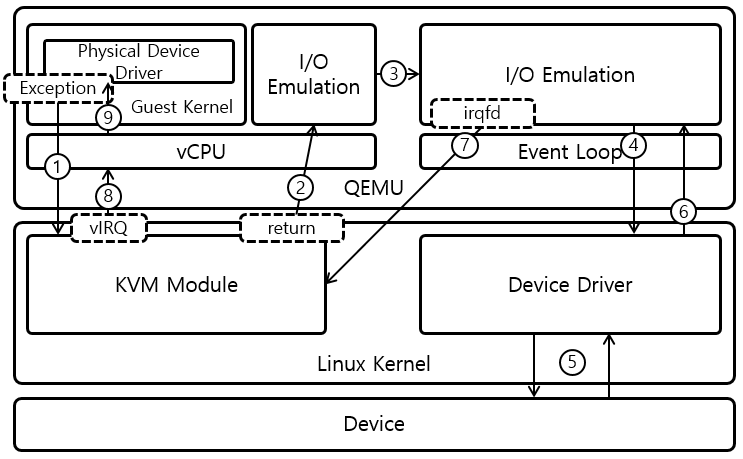
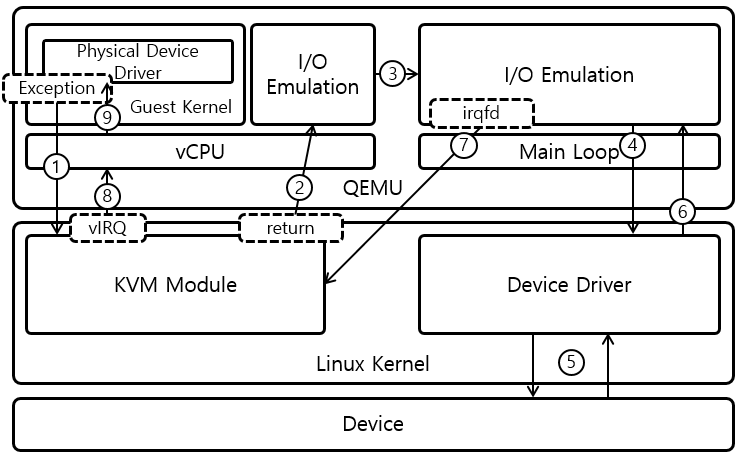
Update QEMU+KVM, I/O Virtualization Software

diff --git a/_docs/theory_analysis/IO_Virtualization_Software.md b/_docs/theory_analysis/IO_Virtualization_Software.md
@@ -13,25 +13,60 @@ adsense: true
 
 <img src="{{site.baseurl}}/images/theory_analysis/IO_Virtualization_Software/Software_IO_Virtualization.PNG" width="700px">
 
-* Software I/O 가상화 기술은 **Emulation** 이다. 하이퍼바이저는 CPU의 하드웨어 기능을 이용하여(Intel VT-x, ARM Hypervisor Extension) 가상 머신 Kernel의 Device Driver가 I/O 요청 하는 순간 Exception을 발생시켜 하이퍼바이저가 실행되도록 설정한다. Exception이 발생하여 하이퍼바이저가 실행되면, 하이퍼바이저는 가상 머신이 어떤 I/O 동작을 하려고 했는지 파악하고 I/O Device Emulation을 수행 후 결과를 가상 머신에게 돌려준다. 가상 머신의 I/O는 Exception과 Emulation이라는 2가지 큰 오버헤드가 발생하기 때문에 가상 머신의 I/O 성능을 크게 낮추는 원인이 된다. 이러한 문제를 해결하기 위해 가상 머신 Device Driver를 원래 물리 머신에서 구동하는 Device Driver가 아닌, 가상 머신 전용 Device Driver를 이용하는 기법이 있다. 물리 머신의 Device Driver를 그대로 이용하는 방법을 I/O Full-virtualization이라고 하고, 가상 머신 전용 Device Driver를 이용하는 방법을 I/O Para-virtualization이라고 한다.
+* Software I/O Virtualization은 **Emulation**을 기반으로 하는 기법이다. 하이퍼바이저는 CPU의 하드웨어 기능을 이용하여(Intel VT-x, ARM Hypervisor Extension) 가상 머신 Kernel의 Device Driver가 I/O 요청 하는 순간 Exception을 발생시켜 하이퍼바이저가 실행되도록 설정한다. Exception이 발생하여 하이퍼바이저가 실행되면, 하이퍼바이저는 가상 머신이 어떤 I/O 동작을 하려고 했는지 파악하고 I/O Device Emulation을 수행 후 결과를 가상 머신에게 돌려준다. 가상 머신의 I/O는 Exception과 Emulation이라는 2가지 큰 Overhead가 발생하기 때문에 가상 머신의 I/O 성능을 크게 낮추는 원인이 된다. 이러한 문제를 해결하기 위해 가상 머신 Device Driver를 원래 물리 머신에서 구동하는 Device Driver가 아닌, 가상 머신 전용 Device Driver를 이용하는 기법이 있다. 물리 머신의 Device Driver를 그대로 이용하는 기법을 I/O Full-virtualization이라고 하고, 가상 머신 전용 Device Driver를 이용하는 기법을 I/O Para-virtualization이라고 한다.
 
 ### 2. I/O Full-virtualization
 
-* I/O Full-virtualization은 물리 머신의 Device Driver를 그대로 이용하는 방법을 의미한다. Linux에서 많이 이용되는 KVM+QEMU 조합에서 QEMU가 Device Emulation 역활을 수행한다.
+* I/O Full-virtualization은 물리 머신의 Device Driver를 그대로 이용하는 기법을 의미한다. Linux에서 많이 이용되는 KVM+QEMU 조합에서 QEMU가 Device Emulation 역활을 수행한다.
 
 <img src="{{site.baseurl}}/images/theory_analysis/IO_Virtualization_Software/KVM_QEMU_IO_Process.PNG" width="700px">
 
-* 위의 그림은 KVM+QEMU에서 I/O Full-virtualization 처리 과정을 나타내고 있다. 그림에서 QEMU는 vCPU와 Event Loop라는 2개의 Thread를 이용하는걸 나타내고 있다. vCPU Thread가 Guest(가상 머신)의 Device Driver를 수행하다가 I/O 수행을 요청하면 Exception이 발생하여 Host(물리 머신)의 KVM Module이 수행된다. KVM Module은 QEMU에게 왜 Exception이 발생하였는지 이유를 전달한다. 전달받은 내용을 바탕으로 QEMU는 I/O 실제 Device에게 I/O 요청 한다. 처리가 끝나면 QEMU는 KVM Module에게 irqfd를 통해서 Guest에게 Virtual IRQ를 Inject 하도록 명령한다. Virtual IRQ를 받은 가상 머신은 자신이 요청한 I/O 처리가 완료되었다고 생각한다.
+* 위의 그림은 KVM+QEMU에서 I/O Full-virtualization 처리 과정을 나타내고 있다. 그림에서 QEMU는 vCPU와 Main Loop라는 2개의 Thread를 이용하는걸 나타내고 있다. vCPU Thread가 Guest(가상 머신)의 Device Driver를 수행하다가 I/O 수행을 요청하면 Exception이 발생하여 Host(물리 머신)의 KVM Module이 수행된다. KVM Module은 QEMU에게 왜 Exception이 발생하였는지 이유를 전달한다. 전달받은 내용을 바탕으로 QEMU는 I/O 실제 Device에게 I/O 요청 한다. 처리가 끝나면 QEMU는 KVM Module에게 irqfd를 통해서 Guest에게 Virtual IRQ를 Inject 하도록 명령한다. Virtual IRQ를 받은 가상 머신은 자신이 요청한 I/O 처리가 완료되었다고 생각한다.
 
 * 물리 머신에서 I/O 처리는 Application -> Device Driver -> Device -> 요청 완료 IRQ 발생 -> Device Driver -> Application의 순으로 진행된다. 가상 머신에서의 I/O 처리는 Device Drvier와 요청 완료 IRQ 사이에서 KVM+QEMU가 관여하여 Device Emulation을 수행하게 된다. 따라서 가상 머신은
 자신이 이용하는 Device가 가상 Device인지 인식하지 못한다.
 
 ![]({{site.baseurl}}/images/theory_analysis/IO_Virtualization_Software/KVM_QEMU_Device.PNG)
 
-* 위의 그림은 QEMU+KVM의 x86 가상 머신안에서 보이는 PCI 장치들을 나타내고 있다. QEMU는 NIC이나 HDD와 같은 장치 뿐만 아니라 PCI Bridge나 IDE Controller같은 x86 가상 머신 구동에 필수적인 모든 Device들을 Emulation한다.
+* 위의 그림은 QEMU+KVM의 x86 가상 머신 안에서 보이는 PCI 장치들과 SCSI 장치들을 나타내고 있다. QEMU는 NIC이나 HDD와 같은 장치 뿐만 아니라 PCI Bridge나 IDE Controller같은 x86 가상 머신 구동에 필수적인 모든 Device들을 Emulation한다.
 
 ### 3. I/O Para-virtualization
 
+* I/O Para-virtualization은 가상 머신에서 물리 머신의 Device Driver를 이용하지 않고 **가상 머신 전용 Device Driver**를 이용하는 기법이다. I/O Full-virtualization의 처리 과정을 보면 가상 머신의 모든 I/O는 Device Emulation Module(QEMU)를 거친다는 사실을 알 수 있다. 다시 말해서 가상 머신과 Device Emulation Module 사이의 I/O Data 통신이 과정이 가상 머신의 I/O의 주요 Overhead가 된다는 의미이다. 가상 머신 전용 Device Driver는 이러한 I/O Data 통신 Overhead를 줄여 가상 머신의 I/O 성능을 향상 시키는 기법이다. KVM의 VirtIO, Xen의 Split Device Driver가 I/O Para-virtualization 기법에 해당한다.
+
+* 가상 머신 전용 Device Driver는 가상 머신과 Device Emulation Module 사이의 I/O Data 통신에 특화된 Device Driver이다. 가상 머신이 물리 머신 Device Driver를 이용 할 때 보다 Emulation Overhead는 줄어들고 가상 머신의 Exception도 덜 발생하게 된다. 따라서 I/O Para-virtualization 기법은 가상 머신의 I/O 성능 향상 뿐만 아니라 Emulation에 의한 Host의 CPU 사용률을 줄이는 효과도 가지고 있다.
+
+#### 3.1. VirtIO
+
+<img src="{{site.baseurl}}/images/theory_analysis/IO_Virtualization_Software/VirtIO_Architecture.PNG" width="600px">
+
+* 위 그림은 VirtIO의 Architecture를 간략히 나타내고 있다. VirtIO는 크게 Frontend 부분인 VirtIO Driver, Backend 부분인 VirtIO Device Emulator 그리고 Frontend와 Backend를 연결해주는 Virtqueue 3가지로 구성되어 있다. Virio Driver는 가상 머신의 Kernel에 탑재되는 Device Driver이다. Virito Device Driver에는 여러가지가 있는데, 대표적으로 Network를 위한 virito-net과 Block 장치를 위한 virtio-Blk, virtio-scsi가 있다. VirtIO Device Emulator는 QEMU가 담당한다. Virtqueue는 가상 머신과 QEMU의 공유 메모리에 위치하여 Frontend와 Backend사이에서 가상 머신의 I/O Data를 전달하는 역활을 수행한다.
+
+<img src="{{site.baseurl}}/images/theory_analysis/IO_Virtualization_Software/KVM_QEMU_virtIO_Process.PNG" width="700px">
+
+* 위의 그림은 KVM+QEMU+VirtIO에서 I/O Para-virtualization 처리 과정을 나타내고 있다. 가상 머신은 VirtIO Device Drvier를 통해 I/O를 요청한다. VirtIO Device Driver는 Kick이라는 동작을 통해 Exception을 발생시켜 KVM을 깨운다. KVM은 다시 ioeventfd를 이용하여 QEMU의 Main Loop을 깨운다. 깨어난 QEMU는 VirtIO Queue에 있는 I/O Data를 실제 I/O Device에 Write하고 그 응답을 다시 Virtqueue에 Write한다. 그 후 QEMU는 KVM Module에게 irqfd를 통해서 Guest에게 Virtual IRQ를 Inject 하도록 명령하여 가상 머신의 I/O 처리를 끝낸다.
+
+![]({{site.baseurl}}/images/theory_analysis/IO_Virtualization_Software/KVM_QEMU_virtIO_Device_Blk.PNG)
+
+![]({{site.baseurl}}/images/theory_analysis/IO_Virtualization_Software/KVM_QEMU_virtIO_Device_SCSI.PNG)
+
+* 위의 그림들은 QEMU+KVM+Virtio의 x86 가상 머신 안에서 보이는 PCI 장치들과 SCSI 장치들을 나타내고 있다. PCI 장치에 VirtIO 장치들이 있는걸 확인 할 수 있다. virtio-scsi의 경우 SCSI 장치로도 인식되는걸 확인 할 수 있다.
+
+#### 4.1 vhost
+
+* vhost는 QEMU의 Virtio Device Emulation 역활을 수행하는 **Kernel Module**이다. 지금까지 설명한 가상 머신의 I/O 처리 과정을 보면, 가상 머신의 Exception 뿐만 아니라 KVM <-> QEMU, QEMU <-> Host Device Driver 사이의 많은 CPU Mode Switch가 발생하는 것을 알 수 있다. 이러한 Mode Switch Overhead를 줄이기 위해서 vhost는 Virtio Device Emulation을 Kernel Module에서 수행한다.
+
+* 또한 QEMU는 Global Mutex를 통해 Device Emulation 과정을 Serialization하기 때문에 가상 머신이 동시에 많은 I/O 요청을 수행하면 I/O 성능이 크게 떨어지는 단점을 가지고 있다. vhost를 이용하면 QEMU의 Global Mutex를 벗어나 VirtIO Device Emulation을 수행하기 때문에 VirtIO의 성능 향상 효과도 가져온다.
+
+<img src="{{site.baseurl}}/images/theory_analysis/IO_Virtualization_Software/KVM_QEMU_virtIO_vhostnet_Progress.PNG" width="700px">
+
+<img src="{{site.baseurl}}/images/theory_analysis/IO_Virtualization_Software/KVM_QEMU_virtIO_vhostscsi_Progress.PNG" width="700px">
+
+* 위의 그림들은 KVM+QEMU+VirtIO+vhost에서 I/O Para-virtualization 처리 과정을 나타내고 있다. QEMU대신 vhost가 VirtIO Device Emulation 역활을 수행하는 것을 알 수 있다. 나머지 과정은 virio만을 이용 할 때와 동일하다. vhost-net은 virtio-net의 Emulation 역활을 수행하고, vhost-scsi+LIO가 virtio-scsi의 Emulation 역활을 수행한다.
+
+![]({{site.baseurl}}/images/theory_analysis/IO_Virtualization_Software/KVM_QEMU_virtIO_vhost_Device.PNG)
+
+* 위의 그림들은 QEMU+KVM+Virtio+vhost의 x86 가상 머신 안에서 보이는 PCI 장치들과 SCSI 장치들을 나타내고 있다. SCSI 장치에 LIO를 인식하는걸 확인 할 수 있다.
 
 ### 4. 참조
 * QEMU - [http://blog.vmsplice.net/2011/03/qemu-internals-overall-architecture-and.html](http://blog.vmsplice.net/2011/03/qemu-internals-overall-architecture-and.html)

diff --git a/_docs/theory_analysis/QEMU_KVM.md b/_docs/theory_analysis/QEMU_KVM.md
@@ -15,29 +15,31 @@ adsense: true
 
 ### 2. QEMU
 
-* QEMU는 **Emulator**이다. 가상의 CPU부터 주변 장치까지 다양한 장치들을 생성하고 Emulating 한다. 따라서 QEMU를 이용하면 x86 PC에서 ARM용으로 Compile된 프로그램도 돌릴 수 있다 (KVM은 불가능). **QEMU는 KVM이 제공하지 못하는 가상의 주변 장치와 PCI BUS를 가상 머신에게 제공할 수 있다.** 따라서 KVM은 QEMU을 이용하여 가상 머신을 구동한다. 물론 QEMU만으로 가상 머신을 구동할 수 있다. 하지만 vCPU Emulating Overhead와 QEMU Arhictecture의 특징 때문에 QEMU만을 이용하여 가상 머신을 구동하면 가상 머신의 성능이 매우 낮아진다. 따라서 KVM + QEMU의 조합으로 가상 머신을 구동하는것이 좋다. XEN도 QEMU를 이용하여 가상 머신에게 가상의 주변장치와 PCI BUS를 제공한다.
+* QEMU는 **Emulator**이다. 가상의 CPU부터 주변 장치까지 다양한 장치들을 생성하고 Emulating 한다. 따라서 QEMU를 이용하면 x86 PC에서 ARM용으로 Compile된 프로그램도 돌릴 수 있다 (KVM은 불가능). **QEMU는 KVM이 제공하지 못하는 가상의 주변 장치와 PCI BUS를 가상 머신에게 제공할 수 있다.** 따라서 KVM은 QEMU을 이용하여 가상 머신을 구동한다. 물론 QEMU만으로 가상 머신을 구동할 수 있다. 하지만 vCPU Emulating Overhead와 QEMU Arhictecture의 특징 때문에 QEMU만을 이용하여 가상 머신을 구동하면 가상 머신의 성능이 매우 낮아진다. 따라서 KVM + QEMU의 조합으로 가상 머신을 구동하는것이 좋다. XEN도 QEMU를 이용하여 가상 머신에게 가상의 주변 장치와 PCI BUS를 제공한다.
 
 #### 2.1. QEMU Architecture
 
-* QEMU의 Architecture는 Parallel Architecture와 Event-Driven Architecture의 결함인 Hybrid Architecture를 선택하고 있다. Parallel Achitecture는 어떤 요청에 대한 처리가 있을때 마다 Thread를 생성하여 병렬적으로 처리하는 Architecture이다. 요청에 대한 반응성은 좋지만 Thread의 개수가 늘어날 수록 Context Switching Overhead가 커지기 때문에, 전체적인 성능이 떨어진게 된다. 반대로 Event-Driven Architecture는 하나의 Main Loop(Thread)가 돌면서 Event 발생을 검사하고 발생한 Event가 있으면 해당 Event의 Event Handler를 수행시키는 구조이다. 하나의 Thread만을 이용하기 때문에 Context Switching Overhead가 적다는 장점을 가지고 있지만, Event Handler에서의 Event 처리시간이 길어지면 전반직인 Event의 반응성이 크게 떨어진다는 단점을 가지고 있다.
+* QEMU의 Architecture는 Parallel Architecture와 Event-Driven Architecture의 결함인 Hybrid Architecture를 선택하고 있다. Parallel Achitecture는 어떤 요청에 대한 처리가 있을때 마다 Thread를 생성하여 병렬적으로 처리하는 Architecture이다. 요청에 대한 반응성은 좋지만 Thread의 개수가 늘어날 수록 Context Switching Overhead가 커지기 때문에, 전체적인 성능이 떨어진게 된다. 반대로 Event-Driven Architecture는 하나의 Main Loop Thread가 돌면서 Event 발생을 검사하고 발생한 Event가 있으면 해당 Event의 Event Handler를 수행시키는 구조이다. 하나의 Thread만을 이용하기 때문에 Context Switching Overhead가 적다는 장점을 가지고 있지만, Event Handler에서의 Event 처리시간이 길어지면 전반직인 Event의 반응성이 크게 떨어진다는 단점을 가지고 있다.
 
-* QEMU는 하나의 Main Loop에서 대부분의 Event 및 관련 연산를 처리하고, CPU Intensive한 처리는 별도의 Worker Thread에 할당하여 처리한다. Main Loop에서는 File Descriptor를 이용하여 이벤트를 확인하고 처리한다. Worker Thread는 할당받은 일의 처리가 완료되면 Main Loop에 처리 완료 이벤트를 전달하고 종료한다.
+* QEMU는 하나의 Main Loop Thread에서 대부분의 Event 및 관련 연산를 처리하고, CPU Intensive한 처리는 별도의 Worker Thread에 할당하여 처리한다. Main Loop Thread에서는 File Descriptor를 이용하여 Event를 확인하고 처리한다. Worker Thread는 할당받은 일의 처리가 완료되면 Main Loop Thread에 처리 완료 Event를 전달하고 종료한다.
 
-* QEMU는 가상 머신이 이용하는 vCPU 처리를 Main Loop에서 처리하는 방식과 별도의 Thread에서 처리하는 방식 2가지를 선택할 수 있는데, 전자의 방식을 non-iothread 처리 방식이라고 부르고 후자의 방식을 iothread를 이용하는 처리 방식이라고 부른다.
-
-
+* QEMU는 가상 머신이 이용하는 vCPU 처리를 Main Loop Thread에서 처리하는 방식과 별도의 Thread에서 처리하는 방식 2가지를 선택할 수 있는데, 전자의 방식을 non-iothread 처리 방식이라고 부르고 후자의 방식을 iothread를 이용하는 처리 방식이라고 부른다.
 
 ##### 2.1.1. QEMU with non-iothread
 
 ![]({{site.baseurl}}/images/theory_analysis/KVM_QEMU/QEMU_non-iothread.PNG)
 
-* non-iothread 방식은 Main Loop에서 vCPU 처리와 이벤트를 같이 처리하는 방식이다. TCG는 vCPU를 Emulating하는 QEMU의 모듈이다. 위의 그림처럼 가상 머신의 2개의 vCPU를 가지고 있더라도 한개의 Thread인 Main Loop에서 Multiplexing되어 처리되기 때문에, 가상 머신이 여러개의 vCPU를 가지고 있더라도 실제로는 병렬적으로 처리되지 않는다. 초기 QEMU의 Architecture이다.
+* non-iothread 방식은 Main Loop Thread에서 vCPU 처리와 Event를 같이 처리하는 방식이다. TCG는 vCPU를 Emulating하는 QEMU의 모듈이다. 위의 그림처럼 가상 머신의 2개의 vCPU를 가지고 있더라도 한개의 Thread인 Main Loop Thread에서 Multiplexing되어 처리되기 때문에, 가상 머신이 여러개의 vCPU를 가지고 있더라도 실제로는 병렬적으로 처리되지 않는다. 초기 QEMU의 Architecture이다.
 
 ##### 2.1.2. QEMU with iothread
 
 ![]({{site.baseurl}}/images/theory_analysis/KVM_QEMU/QEMU_iothread.PNG)
 
-* iothread 방식은 Main Loop에서는 이벤트만 처리하고 각 vCPU마다 Thread를 할당하여 처리하는 방식이다. 그리고 Main Loop와 vCPU 사이의 Sync를 맞추기 위해서 Global Mutex를 이용한다. vCPU는 대부분의 시간을 가상 머신이 수행하는 연산을 처리할뿐 Global Mutex를 이용하지는 않는다. 따라서 vCPU들이 병렬적으로 처리된는 것처럼 보이지만 실제로 vCPU를 Emulating하는 TCG의 Achitecture 때문에 vCPU의 병렬 처리율이 매우 낮다고 한다.
+* iothread 방식은 Main Loop Thread에서는 Event만 처리하고 각 vCPU마다 Thread를 할당하여 처리하는 방식이다. Main Loop Thread 뿐만 아니라 모든 vCPU Thread에서도 주변 장치 Emulation을 수행한다. 하지만 QEMU의 주변 장치 Emulation 부분이 Thread Safe하게 작성되어 있지 않기 때문에 Global Mutex를 이용하여 주변 장치 Emulation 과정을 Serialization한다.
+
+* Main Loop Thread는 대부분의 시간을 Select 함수에서 Blocking하고 있고 vCPU Thread는 대부분의 시간을 가상 머신이 수행하는 연산을 처리하고 있기 때문에, Global Mutex 때문에 Thread들이 오랜 시간 Blocking되지는 않는다. 하지만 주변 장치 Emulation 과정은 Global Mutex에 의해서 Serialization 되기 때문에 가상 머신이 동시에 많은 I/O를 요청하면 가상 머신의 I/O 성능은 크게 떨어진다.
+
+* vCPU들이 별도의 Thread를 이용하기 때문에 병렬적으로 처리된는 것처럼 보이지만 실제로 vCPU를 Emulating하는 TCG의 Achitecture 때문에 vCPU의 병렬 처리율이 매우 낮다고 한다.
 
 ##### 2.1.3. QEMU + KVM
 
